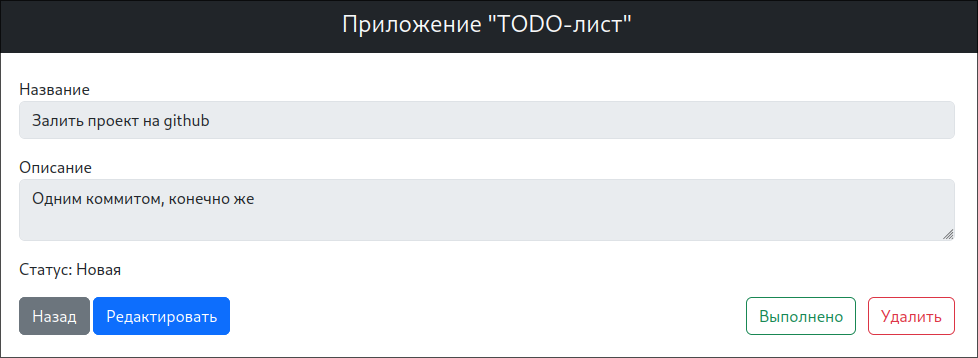
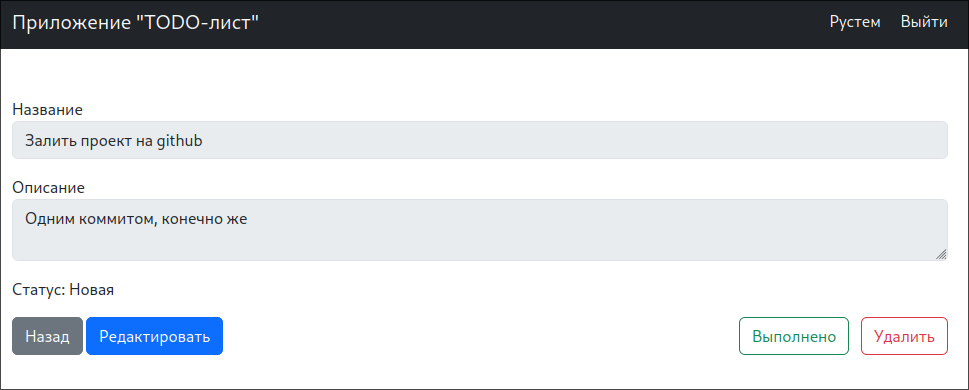
5. Аутентификация в проекте TODO [#504877]

diff --git a/src/main/resources/templates/users/login.html b/src/main/resources/templates/users/login.html
@@ -1,0 +1,50 @@
+<!DOCTYPE html>
+<html xmlns:th="http://www.thymeleaf.org" lang="ru">
+<head th:include="fragments/header :: header"></head>
+<body class="d-flex flex-column min-vh-100">
+
+<div th:replace="fragments/titlebar :: titlebar"></div>
+
+<div class="container mb-4 flex-grow-1">
+    <div class="row justify-content-center">
+        <div class="col-6">
+
+            <h2 class="mt-4 mb-4 text-center">Вход в систему</h2>
+
+            <form th:action="@{/users/login}" method="post" class="border p-4 rounded shadow-sm bg-white">
+
+                <div th:if="${error}" class="alert alert-danger text-center" th:text="${error}"></div>
+
+                <div class="mb-3">
+                    <label for="login" class="form-label fw-semibold">Логин</label>
+                    <input type="text" class="form-control" id="login" name="login" required>
+                </div>
+
+                <div class="mb-4">
+                    <label for="password" class="form-label fw-semibold">Пароль</label>
+                    <input type="password" class="form-control" id="password" name="password" required>
+                </div>
+
+                <div class="d-flex justify-content-between align-items-center mb-3">
+                    <span class="text-muted small">
+                        Не зарегистрированы?
+                        <a th:href="@{/users/register}">Зарегистрироваться</a>
+                    </span>
+                </div>
+
+                <div class="mb-3 row">
+                    <div class="col-6 pe-1">
+                        <a class="btn btn-danger w-100" th:href="@{/}">Отмена</a>
+                    </div>
+                    <div class="col-6 ps-1">
+                        <button class="btn btn-primary w-100" type="submit">Войти</button>
+                    </div>
+                </div>
+            </form>
+        </div>
+    </div>
+</div>
+
+<footer th:include="fragments/footer :: footer"></footer>
+</body>
+</html>

diff --git a/src/main/resources/templates/users/register.html b/src/main/resources/templates/users/register.html
@@ -1,0 +1,47 @@
+<!DOCTYPE html>
+<html xmlns:th="http://www.thymeleaf.org" lang="ru">
+<head th:include="fragments/header :: header"></head>
+<body class="d-flex flex-column min-vh-100">
+
+<div th:replace="fragments/titlebar :: titlebar"></div>
+
+<div class="container mb-4 flex-grow-1">
+    <div class="row justify-content-center">
+        <div class="col-6">
+            <h2 class="mt-4 mb-3 text-center">Регистрация</h2>
+            <form th:action="@{/users/register}" method="post" enctype="multipart/form-data" class="border p-4 rounded shadow-sm bg-white">
+
+                <div th:if="${error}" class="alert alert-danger text-center" th:text="${error}"></div>
+
+                <div class="mb-3">
+                    <label for="name" class="form-label fw-semibold">Имя</label>
+                    <input type="text" class="form-control" id="name" name="name" required>
+                </div>
+
+                <div class="mb-3">
+                    <label for="login" class="form-label fw-semibold">Логин</label>
+                    <input type="text" class="form-control" id="login" name="login" required>
+                </div>
+
+                <div class="mb-3">
+                    <label for="password" class="form-label fw-semibold">Пароль</label>
+                    <input type="password" class="form-control" id="password" name="password" required>
+                </div>
+
+                <div class="mb-3 row">
+                    <div class="col-6 pe-1">
+                        <a class="btn btn-danger w-100" th:href="@{/}">Отмена</a>
+                    </div>
+                    <div class="col-6 ps-1">
+                        <button class="btn btn-primary w-100" type="submit">Сохранить</button>
+                    </div>
+                </div>
+
+            </form>
+        </div>
+    </div>
+</div>
+
+<footer th:include="fragments/footer :: footer"></footer>
+</body>
+</html>

diff --git a/src/main/resources/templates/fragments/titlebar.html b/src/main/resources/templates/fragments/titlebar.html
@@ -1,5 +1,13 @@
-<div th:fragment="titlebar" class="bg-dark text-light py-3">
-    <div class="container text-center">
-        <h1 class="h4 m-0">Приложение "TODO-лист"</h1>
+<div th:fragment="titlebar" class="bg-dark mb-4 text-light py-3">
+    <div class="container d-flex justify-content-between align-items-center">
+        <h1 class="h5 m-0">Приложение "TODO-лист"</h1>
+        <div th:if="${user.name == 'Гость'}">
+            <a class="nav-link d-inline text-light me-3" th:href="@{/users/register}">Регистрация</a>
+            <a class="nav-link d-inline text-light" th:href="@{/users/login}">Войти</a>
+        </div>
+        <div th:if="${user.name != 'Гость'}">
+            <a class="nav-link d-inline text-light me-3" href="#" th:text="${user.name}"></a>
+            <a class="nav-link d-inline text-light" th:href="@{/users/logout}">Выйти</a>
+        </div>
     </div>
 </div>

diff --git a/src/main/java/ru/job4j/todo/controller/UserController.java b/src/main/java/ru/job4j/todo/controller/UserController.java
@@ -1,0 +1,60 @@
+package ru.job4j.todo.controller;
+
+import jakarta.servlet.http.HttpServletRequest;
+import jakarta.servlet.http.HttpSession;
+import lombok.AllArgsConstructor;
+import org.springframework.stereotype.Controller;
+import org.springframework.ui.Model;
+import org.springframework.web.bind.annotation.GetMapping;
+import org.springframework.web.bind.annotation.ModelAttribute;
+import org.springframework.web.bind.annotation.PostMapping;
+import org.springframework.web.bind.annotation.RequestMapping;
+import ru.job4j.todo.model.User;
+import ru.job4j.todo.service.UserService;
+
+@Controller()
+@RequestMapping("/users")
+@AllArgsConstructor
+public class UserController {
+
+    private final UserService simpleUserService;
+
+    @GetMapping("/register")
+    public String getRegistrationPage() {
+        return "users/register";
+    }
+
+    @PostMapping("/register")
+    public String register(Model model, @ModelAttribute User user) {
+        var savedUser = simpleUserService.save(user);
+        if (savedUser.isEmpty()) {
+            model.addAttribute("error", "Пользователь с таким логином уже зарегистрирован");
+            return "users/register";
+        }
+        return "redirect:/index";
+    }
+
+    @GetMapping("/login")
+    public String getLoginPage() {
+        return "users/login";
+    }
+
+    @PostMapping("/login")
+    public String loginUser(@ModelAttribute User user, Model model, HttpServletRequest request) {
+        var userOptional = simpleUserService.findByLoginAndPassword(user.getLogin(), user.getPassword());
+        if (userOptional.isEmpty()) {
+            model.addAttribute("error", "Логин или пароль введены неверно");
+            return "users/login";
+        }
+        var session = request.getSession();
+        session.setAttribute("user", userOptional.get());
+        return "redirect:/index";
+    }
+
+    @GetMapping("/logout")
+    public String logout(HttpSession session) {
+        session.invalidate();
+        return "redirect:/users/login";
+    }
+
+}

diff --git a/src/main/java/ru/job4j/todo/store/SimpleUserStore.java b/src/main/java/ru/job4j/todo/store/SimpleUserStore.java
@@ -1,0 +1,50 @@
+package ru.job4j.todo.store;
+
+import lombok.AllArgsConstructor;
+import lombok.extern.slf4j.Slf4j;
+import org.hibernate.Session;
+import org.hibernate.SessionFactory;
+import org.hibernate.Transaction;
+import org.hibernate.exception.ConstraintViolationException;
+import org.springframework.stereotype.Repository;
+import ru.job4j.todo.model.User;
+
+import java.util.Optional;
+
+@Repository
+@AllArgsConstructor
+@Slf4j
+public class SimpleUserStore implements UserStore {
+
+    private final SessionFactory sf;
+
+    @Override
+    public Optional<User> save(User user) {
+        Transaction tx = null;
+        try (Session session = sf.openSession()) {
+            tx = session.beginTransaction();
+            session.persist(user);
+            tx.commit();
+            return Optional.of(user);
+        } catch (ConstraintViolationException e) {
+            log.warn("Duplicate login attempt: {}", user.getLogin());
+            return Optional.empty();
+        } catch (Exception e) {
+            if (tx != null && tx.getStatus().canRollback()) {
+                tx.rollback();
+            }
+            throw e;
+        }
+    }
+
+    @Override
+    public Optional<User> findByLoginAndPassword(String login, String password) {
+        try (Session session = sf.openSession()) {
+            User user = session.createQuery("FROM User WHERE login=:login AND password=:password", User.class)
+                    .setParameter("login", login)
+                    .setParameter("password", password)
+                    .getSingleResultOrNull();
+            return Optional.ofNullable(user);
+        }
+    }
+}

diff --git a/src/main/java/ru/job4j/todo/filter/AuthorizationFilter.java b/src/main/java/ru/job4j/todo/filter/AuthorizationFilter.java
@@ -1,0 +1,40 @@
+package ru.job4j.todo.filter;
+
+import jakarta.servlet.FilterChain;
+import jakarta.servlet.ServletException;
+import jakarta.servlet.http.HttpFilter;
+import jakarta.servlet.http.HttpServletRequest;
+import jakarta.servlet.http.HttpServletResponse;
+import org.springframework.core.annotation.Order;
+import org.springframework.stereotype.Component;
+
+import java.io.IOException;
+
+@Component
+@Order(1)
+public class AuthorizationFilter extends HttpFilter {
+
+    @Override
+    protected void doFilter(HttpServletRequest request, HttpServletResponse response, FilterChain chain) throws IOException, ServletException {
+        var uri = request.getRequestURI();
+        if (isAlwaysPermitted(uri)) {
+            chain.doFilter(request, response);
+            return;
+        }
+        var userLoggedIn = request.getSession().getAttribute("user") != null;
+        if (!userLoggedIn) {
+            var loginPageUrl = request.getContextPath() + "/users/login";
+            response.sendRedirect(loginPageUrl);
+            return;
+        }
+        chain.doFilter(request, response);
+    }
+
+    private boolean isAlwaysPermitted(String uri) {
+        return uri.startsWith("/users/register")
+                || uri.startsWith("/users/login")
+                || uri.startsWith("/js")
+                || uri.startsWith("/css");
+    }
+
+}

diff --git a/src/main/java/ru/job4j/todo/filter/SessionFilter.java b/src/main/java/ru/job4j/todo/filter/SessionFilter.java
@@ -1,0 +1,34 @@
+package ru.job4j.todo.filter;
+
+import jakarta.servlet.FilterChain;
+import jakarta.servlet.ServletException;
+import jakarta.servlet.http.HttpFilter;
+import jakarta.servlet.http.HttpServletRequest;
+import jakarta.servlet.http.HttpServletResponse;
+import jakarta.servlet.http.HttpSession;
+import org.springframework.core.annotation.Order;
+import org.springframework.stereotype.Component;
+import ru.job4j.todo.model.User;
+
+import java.io.IOException;
+
+@Component
+@Order(2)
+public class SessionFilter extends HttpFilter {
+
+    @Override
+    protected void doFilter(HttpServletRequest request, HttpServletResponse response, FilterChain chain) throws IOException, ServletException {
+        var session = request.getSession();
+        addUserToSession(session, request);
+        chain.doFilter(request, response);
+    }
+
+    private void addUserToSession(HttpSession session, HttpServletRequest request) {
+        var user = (User) session.getAttribute("user");
+        if (user == null) {
+            user = new User();
+            user.setName("Гость");
+        }
+        request.setAttribute("user", user);
+    }
+}

diff --git a/src/main/java/ru/job4j/todo/service/SimpleUserService.java b/src/main/java/ru/job4j/todo/service/SimpleUserService.java
@@ -1,0 +1,26 @@
+package ru.job4j.todo.service;
+
+import lombok.AllArgsConstructor;
+import org.springframework.stereotype.Service;
+import ru.job4j.todo.model.User;
+import ru.job4j.todo.store.UserStore;
+
+import java.util.Optional;
+
+@Service
+@AllArgsConstructor
+public class SimpleUserService implements UserService {
+
+    private final UserStore simpleUserStore;
+
+    @Override
+    public Optional<User> save(User user) {
+        return simpleUserStore.save(user);
+    }
+
+    @Override
+    public Optional<User> findByLoginAndPassword(String login, String password) {
+        return simpleUserStore.findByLoginAndPassword(login, password);
+    }
+
+}

diff --git a/src/main/java/ru/job4j/todo/model/User.java b/src/main/java/ru/job4j/todo/model/User.java
@@ -1,0 +1,20 @@
+package ru.job4j.todo.model;
+
+import jakarta.persistence.*;
+import lombok.AllArgsConstructor;
+import lombok.Data;
+import lombok.NoArgsConstructor;
+
+@Data
+@AllArgsConstructor
+@NoArgsConstructor
+@Entity
+@Table(name = "todo_user")
+public class User {
+    @Id
+    @GeneratedValue(strategy = GenerationType.IDENTITY)
+    private int id;
+    private String name;
+    private String login;
+    private String password;
+}

diff --git a/src/main/java/ru/job4j/todo/service/UserService.java b/src/main/java/ru/job4j/todo/service/UserService.java
@@ -1,0 +1,13 @@
+package ru.job4j.todo.service;
+
+import ru.job4j.todo.model.User;
+
+import java.util.Optional;
+
+public interface UserService {
+
+    Optional<User> save(User user);
+
+    Optional<User> findByLoginAndPassword(String login, String password);
+
+}

diff --git a/src/main/java/ru/job4j/todo/store/UserStore.java b/src/main/java/ru/job4j/todo/store/UserStore.java
@@ -1,0 +1,12 @@
+package ru.job4j.todo.store;
+
+import java.util.Optional;
+import ru.job4j.todo.model.User;
+
+public interface UserStore {
+
+    Optional<User> save(User user);
+
+    Optional<User> findByLoginAndPassword(String login, String password);
+
+}

diff --git a/README.md b/README.md
@@ -44,3 +44,5 @@ mvn spring-boot:run
 ![tasklist.png](img/tasklist.png)
 ### Карточка задачи
 ![task.png](img/task.png)
+### Форма регистрации
+![register.png](img/register.png)
